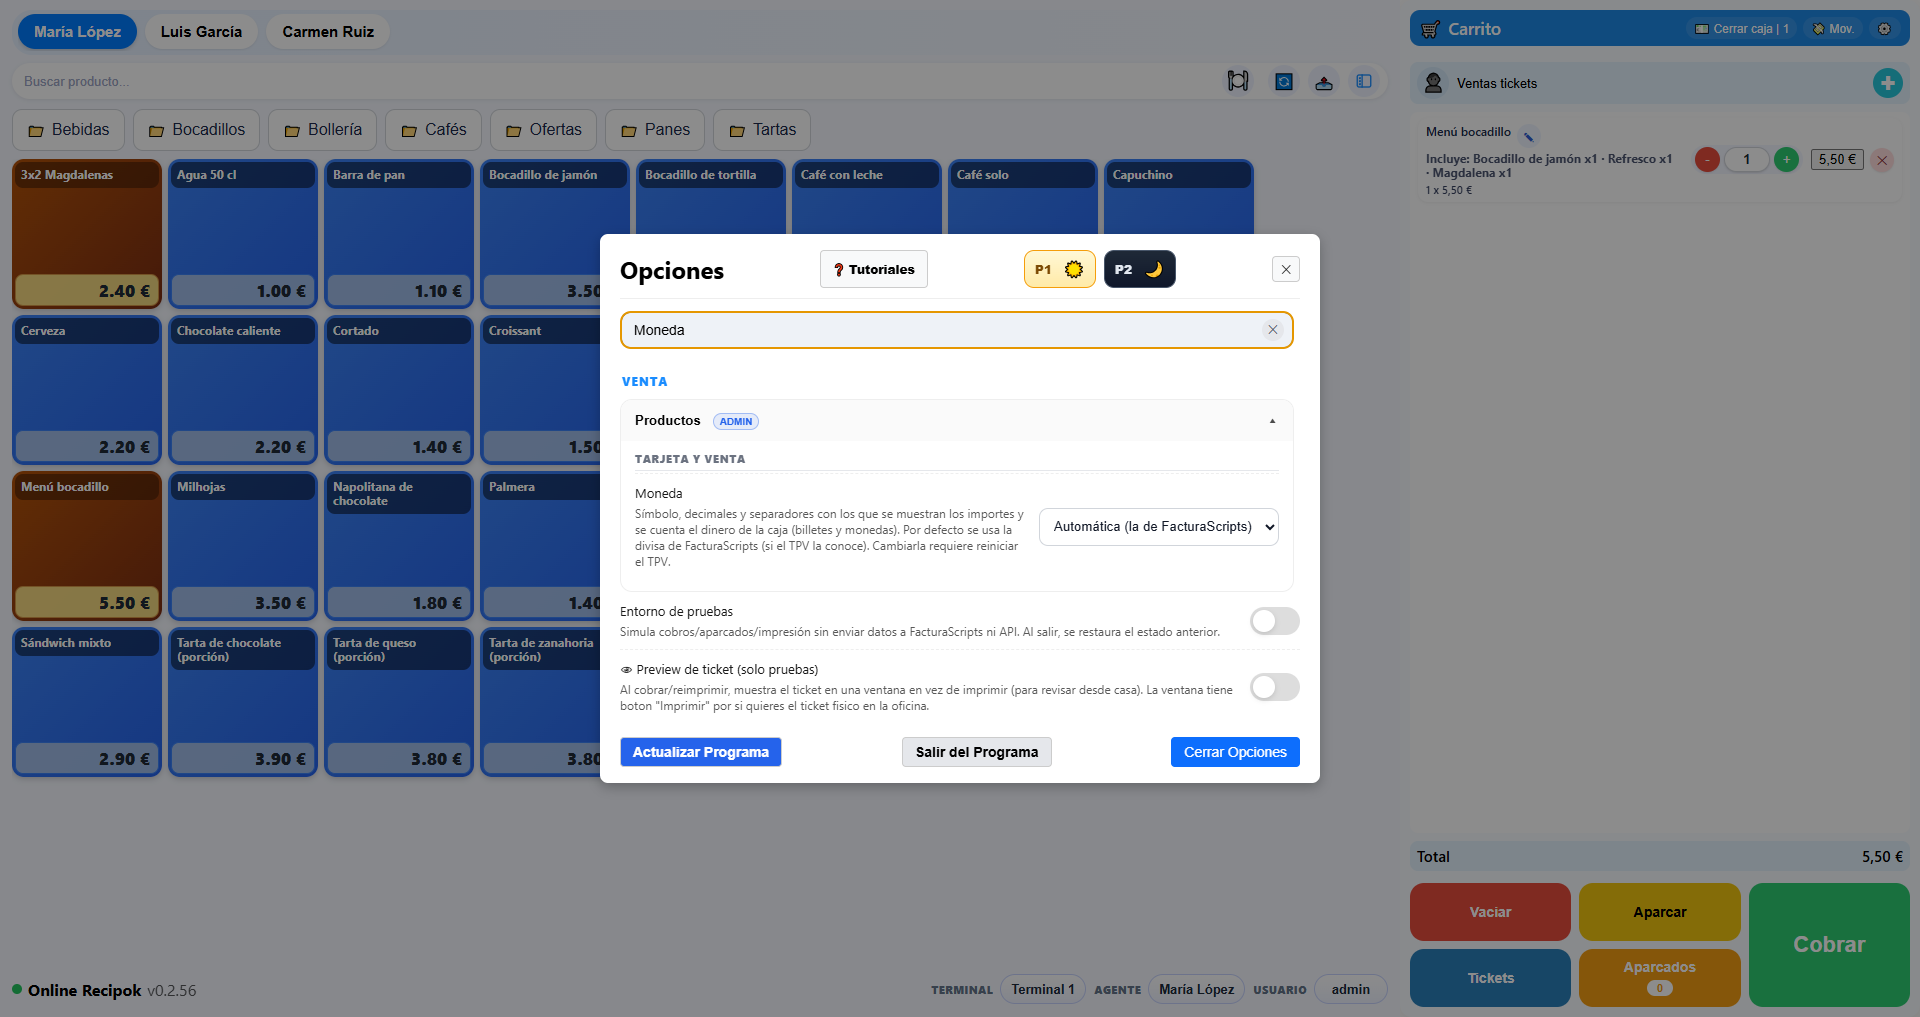
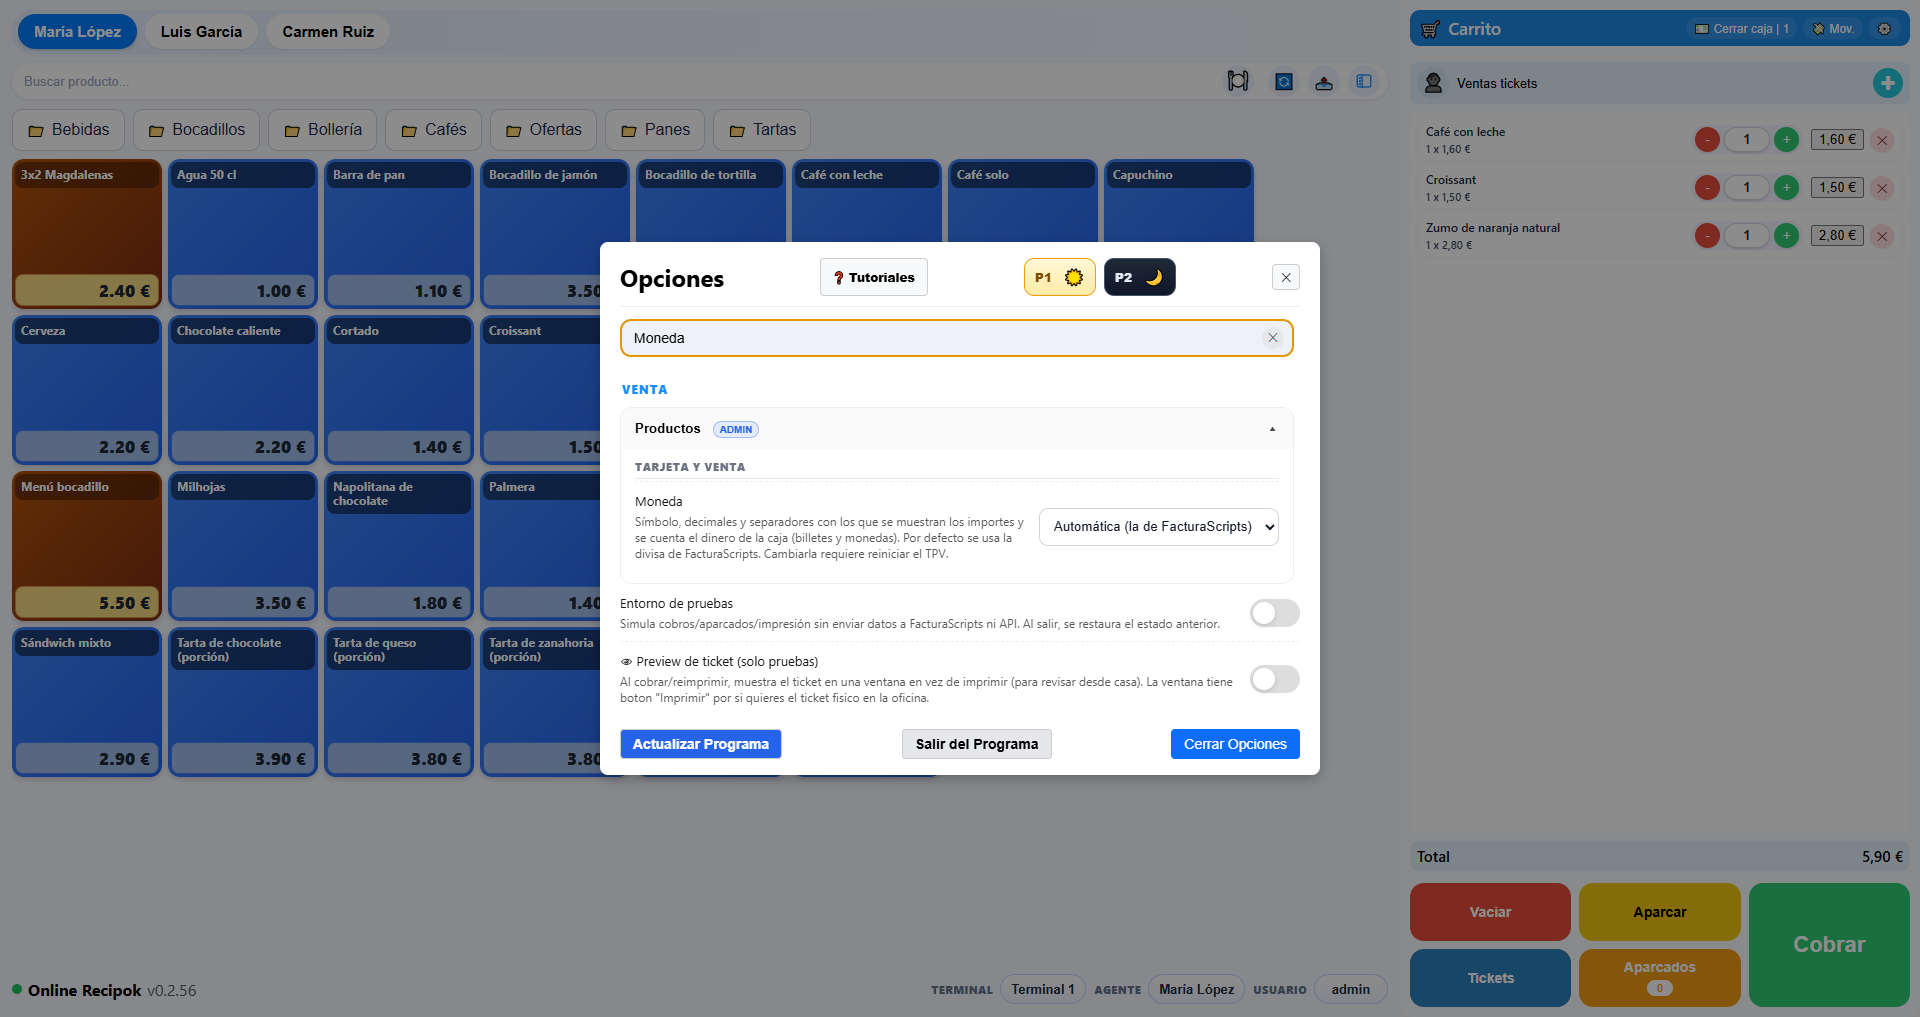
Manual: marcas de las figuras nuevas junto al elemento (sin tapar el texto) y captura de Moneda con el texto actual

diff --git a/docs/manual/07-productos-stock-y-alergenos.md b/docs/manual/07-productos-stock-y-alergenos.md
@@ -25,7 +25,7 @@ Si tu catálogo es grande, activa **Familias primero** (**Opciones → Productos
 ### Qué familias se ven
 En **Opciones → Terminales** puedes elegir qué familias se ven en cada terminal (y su color e icono). Con **Mostrar todos los productos** un terminal enseña todo aunque haya familias desmarcadas.
 
-@fig img/productos-familias-visibilidad.png | crop=470,131,980,755 | width=70 | marks=1:1148,229;2:1391,309;3:912,457;4:817,457;5:1390,845 | Ventana «Familias: visibilidad, color e icono».
+@fig img/productos-familias-visibilidad.png | crop=470,131,980,755 | width=70 | marks=1:1148,229;2:1338,309;3:912,431;4:838,431;5:1441,845 | Ventana «Familias: visibilidad, color e icono».
 
 1. **Terminal / tablet.** Elige qué terminal o qué tablet de camarero configuras.
 2. **Mostrar todos los productos.** Ese terminal enseña todo, aunque haya familias desmarcadas.
@@ -111,7 +111,7 @@ Al pulsar un alérgeno se abre la lista de productos:
 
 Cuando eliges un cliente con tarifa, el carrito lo señala y aplica el precio sin que tengas que hacer nada:
 
-@fig img/vender-tarifa-carrito.png | crop=1410,60,500,260 | marks=1:1752,84;2:1836,139;3:1530,166 | Cliente con una tarifa del −15 %.
+@fig img/vender-tarifa-carrito.png | crop=1410,60,500,260 | marks=1:1700,84;2:1834,121;3:1562,166 | Cliente con una tarifa del −15 %.
 
 1. **Etiqueta de la tarifa** junto al nombre del cliente («Tarifa: −15%»).
 2. **Precio normal tachado** y, debajo, el precio ya con la tarifa.

diff --git a/docs/manual/02-vender-y-cobrar.md b/docs/manual/02-vender-y-cobrar.md
@@ -67,7 +67,7 @@ Un administrador debe activar **Opciones → Carrito → Descuentos manuales en 
 
 Las **ofertas** (por ejemplo «3x2» o un menú) se ven distintas de un producto normal: su tarjeta es **naranja**. Al tocarla se abre una ventana con sus componentes.
 
-@fig img/vender-oferta-ventana.png | crop=600,290,720,437 | width=66 | marks=1:640,446;2:1210,446;3:1107,446;4:1091,380;5:1256,696 | Ventana de una oferta.
+@fig img/vender-oferta-ventana.png | crop=600,290,720,437 | width=66 | marks=1:616,446;2:1302,446;3:1076,446;4:1018,380;5:1074,696 | Ventana de una oferta.
 
 1. **Casilla.** Marca si el cliente se lleva ese componente.
 2. **− / +** y el número: las unidades de ese componente.
@@ -77,7 +77,7 @@ Las **ofertas** (por ejemplo «3x2» o un menú) se ven distintas de un producto
 
 En el carrito la oferta aparece como **una sola línea** con su nombre y su lápiz **✎** («Editar oferta»), y debajo una frase «Incluye: …» con los componentes y sus unidades. El precio es el de la oferta.
 
-@fig img/vender-oferta-carrito.png | crop=1410,100,500,110 | marks=1:1528,134;2:1450,160 | Una oferta en el carrito.
+@fig img/vender-oferta-carrito.png | crop=1410,100,500,110 | marks=1:1556,134;2:1534,173 | Una oferta en el carrito.
 
 En la información de un ticket los componentes se ven como «↳ … incluido».
 

diff --git a/docs/manual/10-opciones.md b/docs/manual/10-opciones.md
@@ -50,7 +50,7 @@ Con la sesión iniciada puedes ver y cambiar las Opciones **aunque la caja esté
 - **Modo redimensionar productos.** Muestra asas sobre cada tarjeta para cambiar su tamaño y el tamaño de letra del nombre («Aa»). Afecta a todos los productos. **Restablecer tamaño de productos** y **Restablecer tamaño de letra** devuelven los valores recomendados.
 - **Alérgenos.** Marca qué productos llevan cada uno de los 14 alérgenos oficiales de la UE (o alguno propio). Se destaca en la tarjeta, en el carrito y en la comanda impresa.
 
-@fig img/opciones-moneda.png | crop=600,234,720,549 | width=66 | marks=1:1160,526 | La opción «Moneda» (con el buscador de Opciones).
+@fig img/opciones-moneda.png | crop=600,234,720,549 | width=66 | marks=1:1030,526 | La opción «Moneda» (con el buscador de Opciones).
 
 1. **Moneda.** Automática (la de FacturaScripts), Euro o Peso colombiano.
 

diff --git a/docs/manual/01-primeros-pasos.md b/docs/manual/01-primeros-pasos.md
@@ -70,7 +70,7 @@ Un administrador puede ocultar alguno de estos botones en **Opciones → Barra d
 
 Si el terminal tiene **dos o más agentes**, sobre los productos aparece una fila con un botón por agente (con flechas ‹ › cuando no caben todos) para cambiar de agente con un solo toque. Si ese agente exige el PIN de administrador, se abre la ventana de cambio de agente para pedirlo. Con un solo agente (o ninguno) la barra no se muestra.
 
-@fig img/inicio-barra-agentes.png | crop=0,0,430,62 | width=50 | marks=1:36,32;2:200,32 | Barra de agentes.
+@fig img/inicio-barra-agentes.png | crop=0,0,430,72 | width=50 | marks=1:77,58;2:200,58 | Barra de agentes.
 
 1. **Agente activo.** El que está en azul: a su nombre irán las ventas.
 2. **Otros agentes.** Un toque y pasas a ese agente.
